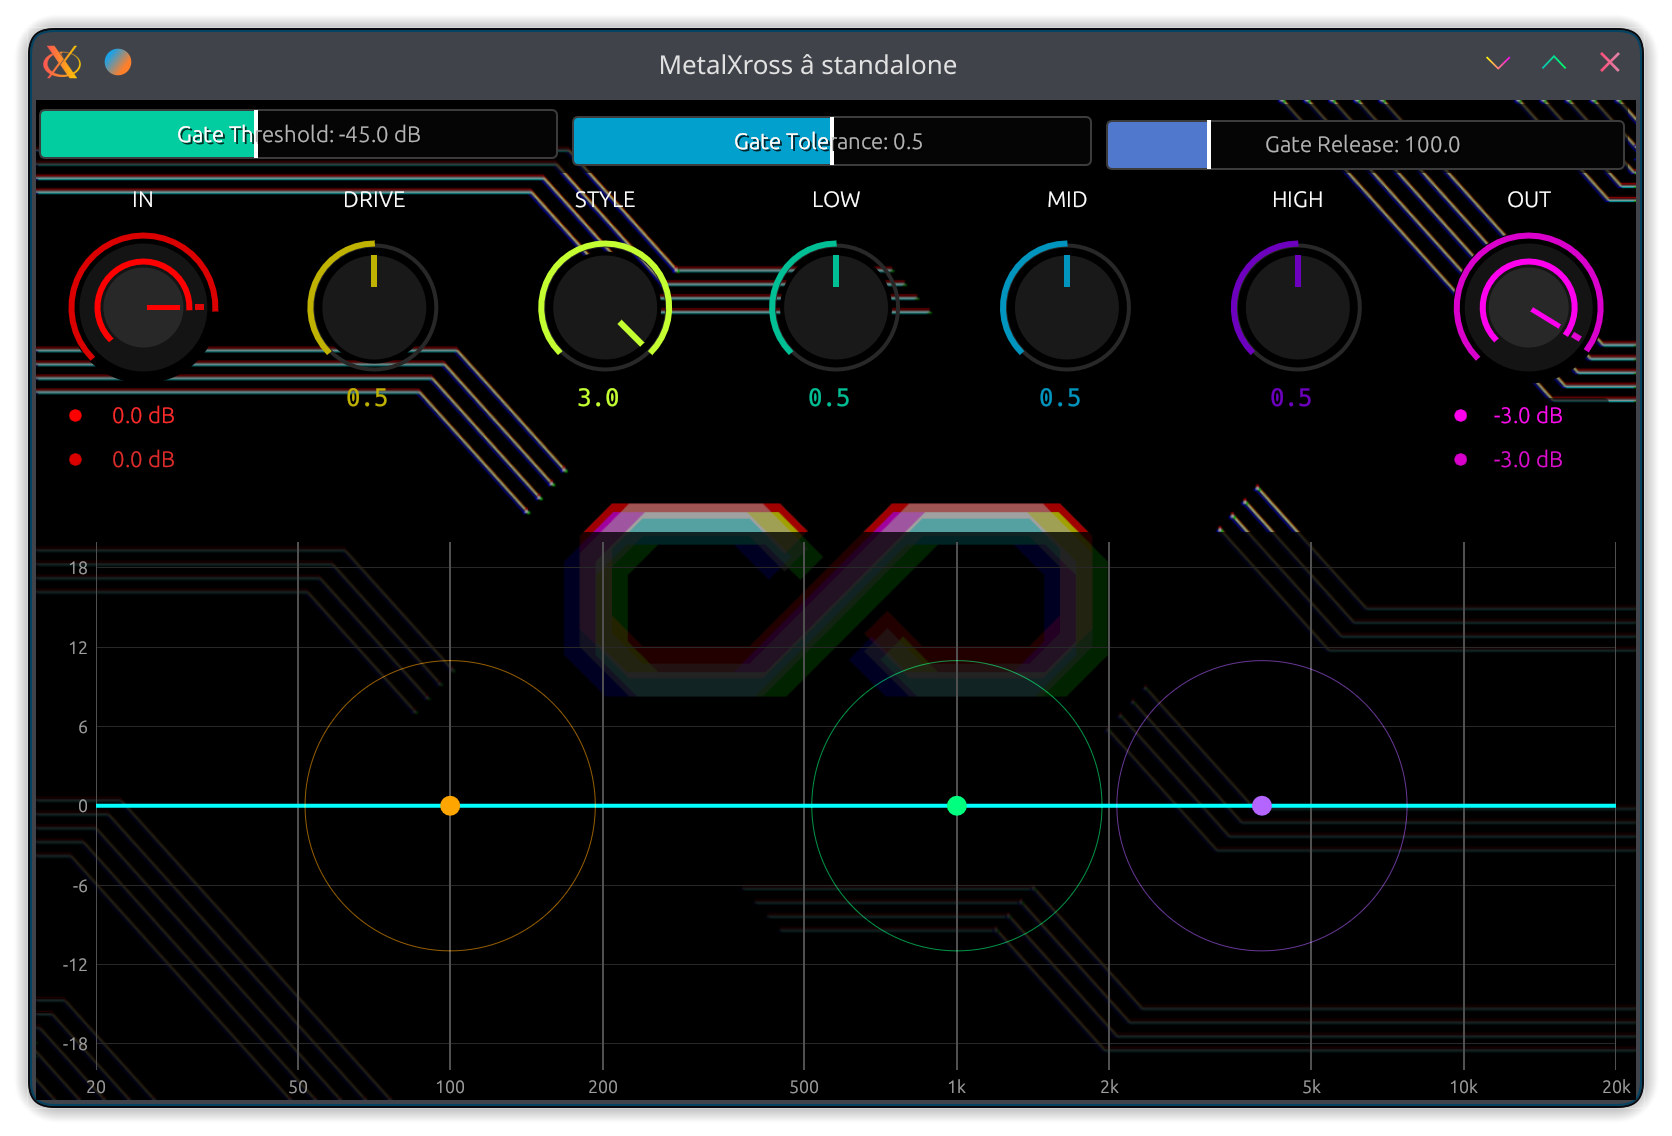
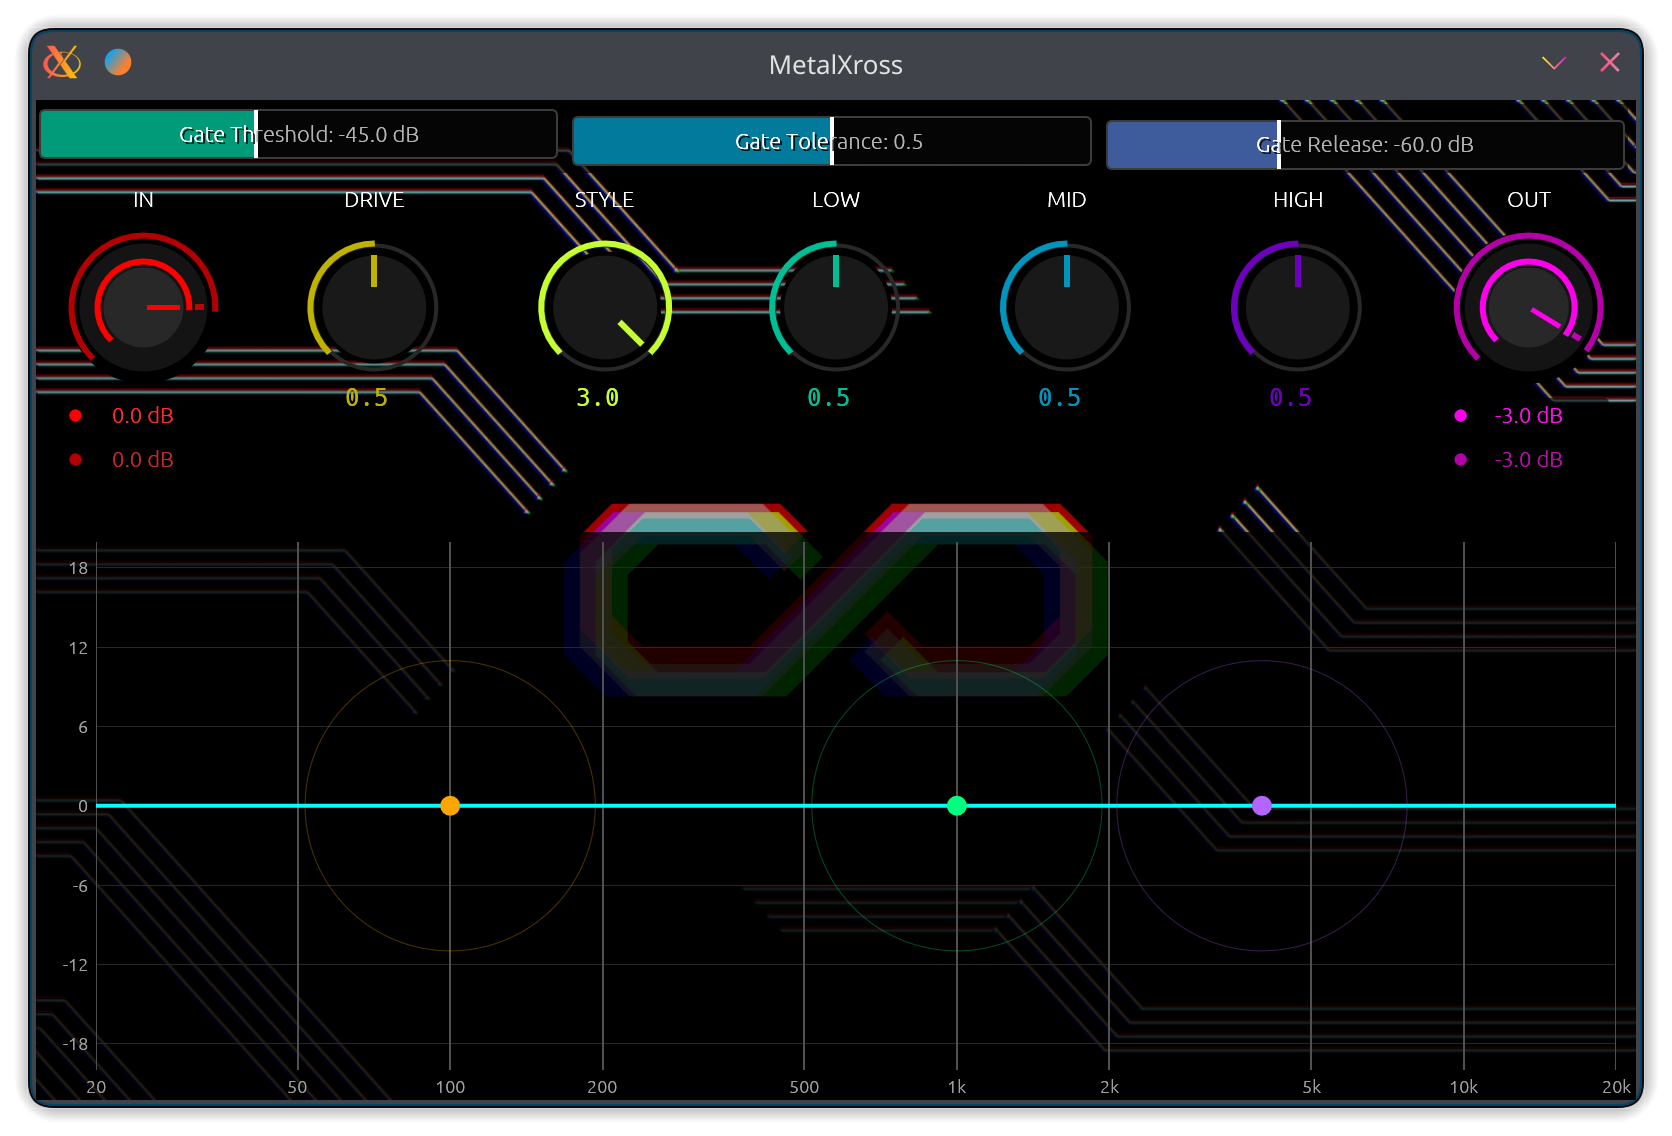
v3.2.0

diff --git a/src/effector/gain/metal.rs b/src/effector/gain/metal.rs
@@ -1,38 +1,94 @@
+// src/amp/metal.rs
 use super::XrossGainProcessor;
 use crate::params::MetalXrossParams;
 use std::f32::consts::PI;
 use std::sync::Arc;
 use truce::params::FloatParamReadF32;
 
-/// 2次フィルタ（Biquad）の状態保持用
+/// 2次ダイレクトフォームII転置形式 Biquad フィルター
 #[derive(Default, Clone)]
 struct Biquad {
     z1: f32,
     z2: f32,
+    b0: f32,
+    b1: f32,
+    b2: f32,
+    a1: f32,
+    a2: f32,
 }
 
 impl Biquad {
-    // ダイレクトフォームII転置形式
     #[inline(always)]
-    fn process(&mut self, input: f32, a1: f32, a2: f32, b0: f32, b1: f32, b2: f32) -> f32 {
-        let out = b0 * input + self.z1;
-        self.z1 = b1 * input - a1 * out + self.z2;
-        self.z2 = b2 * input - a2 * out;
+    fn process(&mut self, input: f32) -> f32 {
+        let out = self.b0 * input + self.z1;
+        self.z1 = self.b1 * input - self.a1 * out + self.z2;
+        self.z2 = self.b2 * input - self.a2 * out;
         out
+    }
+
+    /// HighPass Filter
+    fn set_highpass(&mut self, cutoff: f32, q: f32, sample_rate: f32) {
+        let w0 = 2.0 * PI * (cutoff / sample_rate).min(0.48);
+        let cos_w0 = w0.cos();
+        let alpha = w0.sin() / (2.0 * q);
+
+        let a0 = 1.0 + alpha;
+        self.b0 = ((1.0 + cos_w0) / 2.0) / a0;
+        self.b1 = (-(1.0 + cos_w0)) / a0;
+        self.b2 = ((1.0 + cos_w0) / 2.0) / a0;
+        self.a1 = (-2.0 * cos_w0) / a0;
+        self.a2 = (1.0 - alpha) / a0;
+    }
+
+    /// Peaking Filter
+    fn set_peaking(&mut self, cutoff: f32, gain_db: f32, q: f32, sample_rate: f32) {
+        let w0 = 2.0 * PI * (cutoff / sample_rate).min(0.48);
+        let cos_w0 = w0.cos();
+        let alpha = w0.sin() / (2.0 * q);
+        let a = 10.0f32.powf(gain_db / 40.0);
+
+        let a0 = 1.0 + alpha / a;
+        self.b0 = (1.0 + alpha * a) / a0;
+        self.b1 = (-2.0 * cos_w0) / a0;
+        self.b2 = (1.0 - alpha * a) / a0;
+        self.a1 = (-2.0 * cos_w0) / a0;
+        self.a2 = (1.0 - alpha / a) / a0;
+    }
+
+    /// LowPass Filter
+    fn set_lowpass(&mut self, cutoff: f32, q: f32, sample_rate: f32) {
+        let w0 = 2.0 * PI * (cutoff / sample_rate).min(0.48);
+        let cos_w0 = w0.cos();
+        let alpha = w0.sin() / (2.0 * q);
+
+        let a0 = 1.0 + alpha;
+        self.b0 = ((1.0 - cos_w0) / 2.0) / a0;
+        self.b1 = (1.0 - cos_w0) / a0;
+        self.b2 = ((1.0 - cos_w0) / 2.0) / a0;
+        self.a1 = (-2.0 * cos_w0) / a0;
+        self.a2 = (1.0 - alpha) / a0;
     }
 }
 
 #[derive(Default, Clone)]
 struct MetalChannelState {
-    pre_hp: f32,
+    // フィルター群
+    pre_tight_hp: Biquad,      // 歪み前のローカット
+    pre_klang_boost: Biquad,   // 3.2kHz アタック・ピッキングバイト
+    post_mud_notch: Biquad,    // 450Hz ピンポイント・ノッチカット
+    post_mid_core: Biquad,     // 1.5kHz 鉄板のような音の芯
+    post_chug_peaking: Biquad, // 80Hz 超硬質重低音パンチ
+    os_lpf: Biquad,            // 抗エイリアシング LPF
+
+    // エンベロープ・動的状態
+    fast_env: f32,
+    slow_env: f32,
     slew_state: f32,
     dc_block: f32,
-    envelope: f32,
-    prev_input: f32,
-    low_resonance: f32,
-    post_tight: f32,
     feedback_state: f32,
-    os_lpf_biquad: Biquad,
+    prev_input: f32,
+
+    current_os_factor: usize,
 }
 
 pub struct XrossMetalSystem {
@@ -50,6 +106,7 @@ impl XrossMetalSystem {
         }
     }
 
+    /// Djent / Ultra Hard-Tuned Modern High-Gain コア・ディストーションエンジン
     #[inline(always)]
     fn drive_core(
         state: &mut MetalChannelState,
@@ -58,58 +115,67 @@ impl XrossMetalSystem {
         s_low: f32,
         s_mid: f32,
         s_high: f32,
+        effective_sr: f32,
     ) -> f32 {
-        let env = state.envelope;
+        // === 1. EXTREME PRE-GAIN TIGHTENING (超超タイト化) ===
+        // 歪み前の低域カットラインを 200Hz〜400Hz へ大幅引き上げ。ブーミーさを完全粉砕
+        let hp_freq = 400.0 - (s_low * 200.0);
+        state.pre_tight_hp.set_highpass(hp_freq, 0.85, effective_sr);
+        let mut x = state.pre_tight_hp.process(input);
 
-        // 1. DYNAMIC PRE-HP (ピッキング時のタイトさ)
-        let hp_freq = 0.05 + (1.0 - s_low) * 0.18 + (env * 0.25);
-        state.pre_hp += hp_freq * (input - state.pre_hp);
-        let mut x = input - state.pre_hp;
+        // 3.2kHz（ピッキングの「ガリッ」という高域金属成分）を前段で強烈ブースト (Q=1.5)
+        let klang_gain = 4.0 + (s_high * 6.5);
+        state
+            .pre_klang_boost
+            .set_peaking(3200.0, klang_gain, 1.5, effective_sr);
+        x = state.pre_klang_boost.process(x);
 
-        // 2. GAIN STAGING
-        // 指数関数的なゲインカーブで強烈なハイゲインを実現
-        let noise_gate_scale = (env * 25.0).min(1.0).powf(1.1);
-        let drive_amt = ((gain * 7.8).exp() * 15.0) * noise_gate_scale;
+        // === 2. HEAVY SATURATION & HARD WALL CLIPPING ===
+        // ゲイン倍率を 2.0 倍まで底上げ
+        let drive_amt = (1.0 + (gain * 45.0) + (gain.powi(3) * 80.0)) * 2.0;
         x *= drive_amt;
 
-        // 3. MULTI-STAGE SATURATION (粘りと絡み)
-        x += state.feedback_state * 0.25;
+        // タイトなフィードバック
+        x += state.feedback_state * 0.12;
 
-        // 非対称サチュレーション
-        x = if x > 0.0 {
-            (x * 1.3).tanh()
-        } else {
-            (x * 1.15).tanh() * 0.97
-        };
+        // アグレッシブなウェーブシェイピング（より角の立ったクリッピング）
+        let positive = (x * 1.6).tanh();
+        let negative = (x * 1.3).atan() * 1.1;
+        x = if x > 0.0 { positive } else { negative };
 
-        // Style Mid Scoop (s_midが低いほどドンシャリ、高いほど中域を盛る)
-        let mid_scoop = (0.5 - s_mid).max(0.0) * 0.8;
-        if mid_scoop > 0.0 {
-            x -= (x - x.powi(3)) * mid_scoop;
-        }
-
-        // Style High に連動するエッジの硬さ
-        let soft_out = (x * 1.2).atan() * 0.85;
-        let hard_limit = 0.85 - (s_high * 0.3);
-        let hard_out = x.clamp(-hard_limit, hard_limit);
-
-        let square_mix = s_high * 0.6;
-        x = (soft_out * (1.0 - square_mix)) + (hard_out * square_mix);
+        // リミット幅を厳しく絞り込み、音の壁を作る（ハードコンプレッション効果）
+        let hard_clip = 0.78 - (s_high * 0.25);
+        x = x.clamp(-hard_clip, hard_clip);
 
         state.feedback_state = x;
 
-        // 4. POST-PROCESSING
-        let lpf_cutoff = 0.25 + (s_high * 0.55);
-        state.post_tight += lpf_cutoff * (x - state.post_tight);
-        x = state.post_tight;
+        // === 3. HARD EQ & DYNAMIC ATTACK ===
 
-        // Low Resonance (キャビネットの鳴りやミュートの重厚感)
-        let low_boost = s_low * 0.65 * (1.0 - env.min(0.8));
-        state.low_resonance += 0.15 * (x - state.low_resonance);
-        x += state.low_resonance * low_boost;
+        // A) 450Hz 中低域の泥みをシャープな Q (2.2) で深めにノッチカット
+        let mud_cut_db = -4.0 - (1.0 - s_mid) * 8.0;
+        state
+            .post_mud_notch
+            .set_peaking(450.0, mud_cut_db, 2.2, effective_sr);
+        x = state.post_mud_notch.process(x);
 
-        // 5. SLEW RATE (アタックのトゲ調整)
-        let max_step = 0.04 + (s_high * 0.9);
+        // B) 1.5kHz 鉄板のような芯の付加
+        let mid_gain_db = (s_mid - 0.5) * 12.0;
+        let core_boost_db = mid_gain_db + 2.5;
+        state
+            .post_mid_core
+            .set_peaking(1500.0, core_boost_db, 1.4, effective_sr);
+        x = state.post_mid_core.process(x);
+
+        // C) 80Hz サブベース・アタック（パームミュート時の硬質で重いパンチ）
+        let attack_transient = (state.fast_env - state.slow_env).max(0.0);
+        let chug_boost = (s_low * 6.0) + (attack_transient * 18.0 * s_low);
+        state
+            .post_chug_peaking
+            .set_peaking(80.0, chug_boost, 2.8, effective_sr);
+        x = state.post_chug_peaking.process(x);
+
+        // SLEW RATE (アタックの立ち上がりスピードを最大化)
+        let max_step = 0.15 + (s_high * 1.2);
         let diff = x - state.slew_state;
         state.slew_state += diff.clamp(-max_step, max_step);
 
@@ -124,54 +190,46 @@ impl XrossMetalSystem {
 
         let state = &mut self.states[ch_idx];
 
-        // ゲイン量に応じてオーバーサンプリング倍数を可変 (負荷軽減)
-        let os_factor = if g < 0.25 {
+        // 1. 高速/低速エンベロープ
+        let abs_in = input.abs();
+        state.fast_env += (abs_in - state.fast_env) * 0.25; // レスポンス速度向上
+        state.slow_env += (abs_in - state.slow_env) * 0.005;
+
+        // 2. 動的オーバーサンプリング
+        let os_factor = if g < 0.2 {
             1
-        } else if g < 0.55 {
+        } else if g < 0.5 {
             2
         } else {
             4
         };
+
+        let effective_sr = self.sample_rate * os_factor as f32;
         let inv_os = 1.0 / os_factor as f32;
 
-        state.envelope += (input.abs() - state.envelope) * 0.3;
+        if state.current_os_factor != os_factor {
+            state.os_lpf.set_lowpass(18000.0, 0.707, effective_sr);
+            state.current_os_factor = os_factor;
+        }
 
+        // 3. オーバーサンプリング・ループ
         let mut output_sum = 0.0;
         for i in 0..os_factor {
             let fraction = i as f32 * inv_os;
             let sub_sample = state.prev_input + (input - state.prev_input) * fraction;
-            output_sum += Self::drive_core(state, sub_sample, g, sl, sm, sh);
+
+            let driven = Self::drive_core(state, sub_sample, g, sl, sm, sh, effective_sr);
+            output_sum += state.os_lpf.process(driven);
         }
         state.prev_input = input;
 
         let raw_out = output_sum * inv_os;
 
-        // 2次 Butterworth LPF によるエイリアシング除去 (約17kHz)
-        let (a1, a2, b0, b1, b2) = Self::calculate_biquad_lpf(self.sample_rate, 17000.0);
-        let filtered_out = state.os_lpf_biquad.process(raw_out, a1, a2, b0, b1, b2);
+        // 4. DC カット
+        let dc_fix = raw_out - state.dc_block;
+        state.dc_block = raw_out + 0.995 * (state.dc_block - raw_out);
 
-        // DC Block
-        let dc_fix = filtered_out - state.dc_block;
-        state.dc_block = filtered_out + 0.997 * (state.dc_block - filtered_out);
-
-        dc_fix * 0.7
-    }
-
-    fn calculate_biquad_lpf(sample_rate: f32, cutoff: f32) -> (f32, f32, f32, f32, f32) {
-        let ff = (cutoff / sample_rate).min(0.45);
-        let omega = 2.0 * PI * ff;
-        let sn = omega.sin();
-        let cs = omega.cos();
-        let alpha = sn / (2.0f32).sqrt();
-
-        let a0 = 1.0 + alpha;
-        let a1 = -2.0 * cs / a0;
-        let a2 = (1.0 - alpha) / a0;
-        let b1 = (1.0 - cs) / a0;
-        let b0 = b1 * 0.5;
-        let b2 = b0;
-
-        (a1, a2, b0, b1, b2)
+        dc_fix * 0.80
     }
 }
 
@@ -179,6 +237,10 @@ impl XrossGainProcessor for XrossMetalSystem {
     fn initialize(&mut self, sample_rate: f32, num_channels: usize) {
         self.sample_rate = sample_rate;
         self.states = vec![MetalChannelState::default(); num_channels];
+        for state in &mut self.states {
+            state.os_lpf.set_lowpass(18000.0, 0.707, sample_rate);
+            state.current_os_factor = 1;
+        }
     }
 
     fn process_channel(&mut self, slice: &mut [f32], ch_idx: usize) {

diff --git a/src/effector/noise_gate.rs b/src/effector/noise_gate.rs
@@ -1,3 +1,4 @@
+// src/amp/noisegate.rs
 use crate::params::MetalXrossParams;
 use std::sync::Arc;
 use truce::prelude::*;
@@ -59,11 +60,13 @@ impl XrossNoiseGate {
 
         let threshold_db = self.params.gate_threshold.value();
         let open_threshold = db_to_gain(threshold_db);
-        let close_threshold = db_to_gain(threshold_db - 3.0); // 3dB ヒステリシス
 
-        let release_ms = self.params.gate_release.value();
+        let release_db = self.params.gate_release.value();
+        let close_threshold = db_to_gain(release_db);
+
+        // スムージング用の係数（アタックは高速固定、リリースは音量ベースの追従に合わせて滑らかに）
         let attack_coeff = (-1.0 / (0.001 * self.sample_rate)).exp(); // 1ms
-        let release_coeff = (-1.0 / (release_ms * self.sample_rate / 1000.0)).exp();
+        let release_coeff = (-1.0 / (0.010 * self.sample_rate)).exp(); // 10ms
 
         for ch in 0..num_channels {
             let state = &mut self.states[ch];
@@ -99,21 +102,23 @@ impl XrossNoiseGate {
                 let current_env =
                     (state.mid_env * 0.7) + (state.low_env * 0.15) + (state.high_env * 0.15);
 
-                // 2. Gate Logic
-                let is_playing = if state.gate_gain < 0.1 {
-                    current_env > open_threshold
-                } else {
-                    current_env > close_threshold
-                };
-
-                let target_gain = if is_playing {
+                // 2. 音量ベースのレンジ制御（Threshold と Release(dB) の間を連続的に減衰）
+                let target_gain = if current_env >= open_threshold {
                     state.hold_timer = (0.020 * self.sample_rate) as i32; // 20ms hold
                     1.0
                 } else if state.hold_timer > 0 {
                     state.hold_timer -= 1;
                     1.0
-                } else {
+                } else if current_env <= close_threshold {
                     0.0
+                } else {
+                    // Threshold と Close(Release) の間の音量を線形（またはカスタムカーブ）にマッピングして徐々に減衰
+                    let range = open_threshold - close_threshold;
+                    if range > 1e-6 {
+                        ((current_env - close_threshold) / range).clamp(0.0, 1.0)
+                    } else {
+                        0.0
+                    }
                 };
 
                 // 3. Smooth & Apply

diff --git a/src/params.rs b/src/params.rs
@@ -22,9 +22,9 @@ pub struct MetalXrossParams {
 
     #[param(
         name = "Gate Release",
-        range = "linear(1.0, 500.0)",
-        default = 100.0,
-        unit = "ms",
+        range = "linear(-80.0, -20.0)",
+        default = -60,
+        unit = "dB",
         smooth = "exp(50)"
     )]
     pub gate_release: FloatParam,
